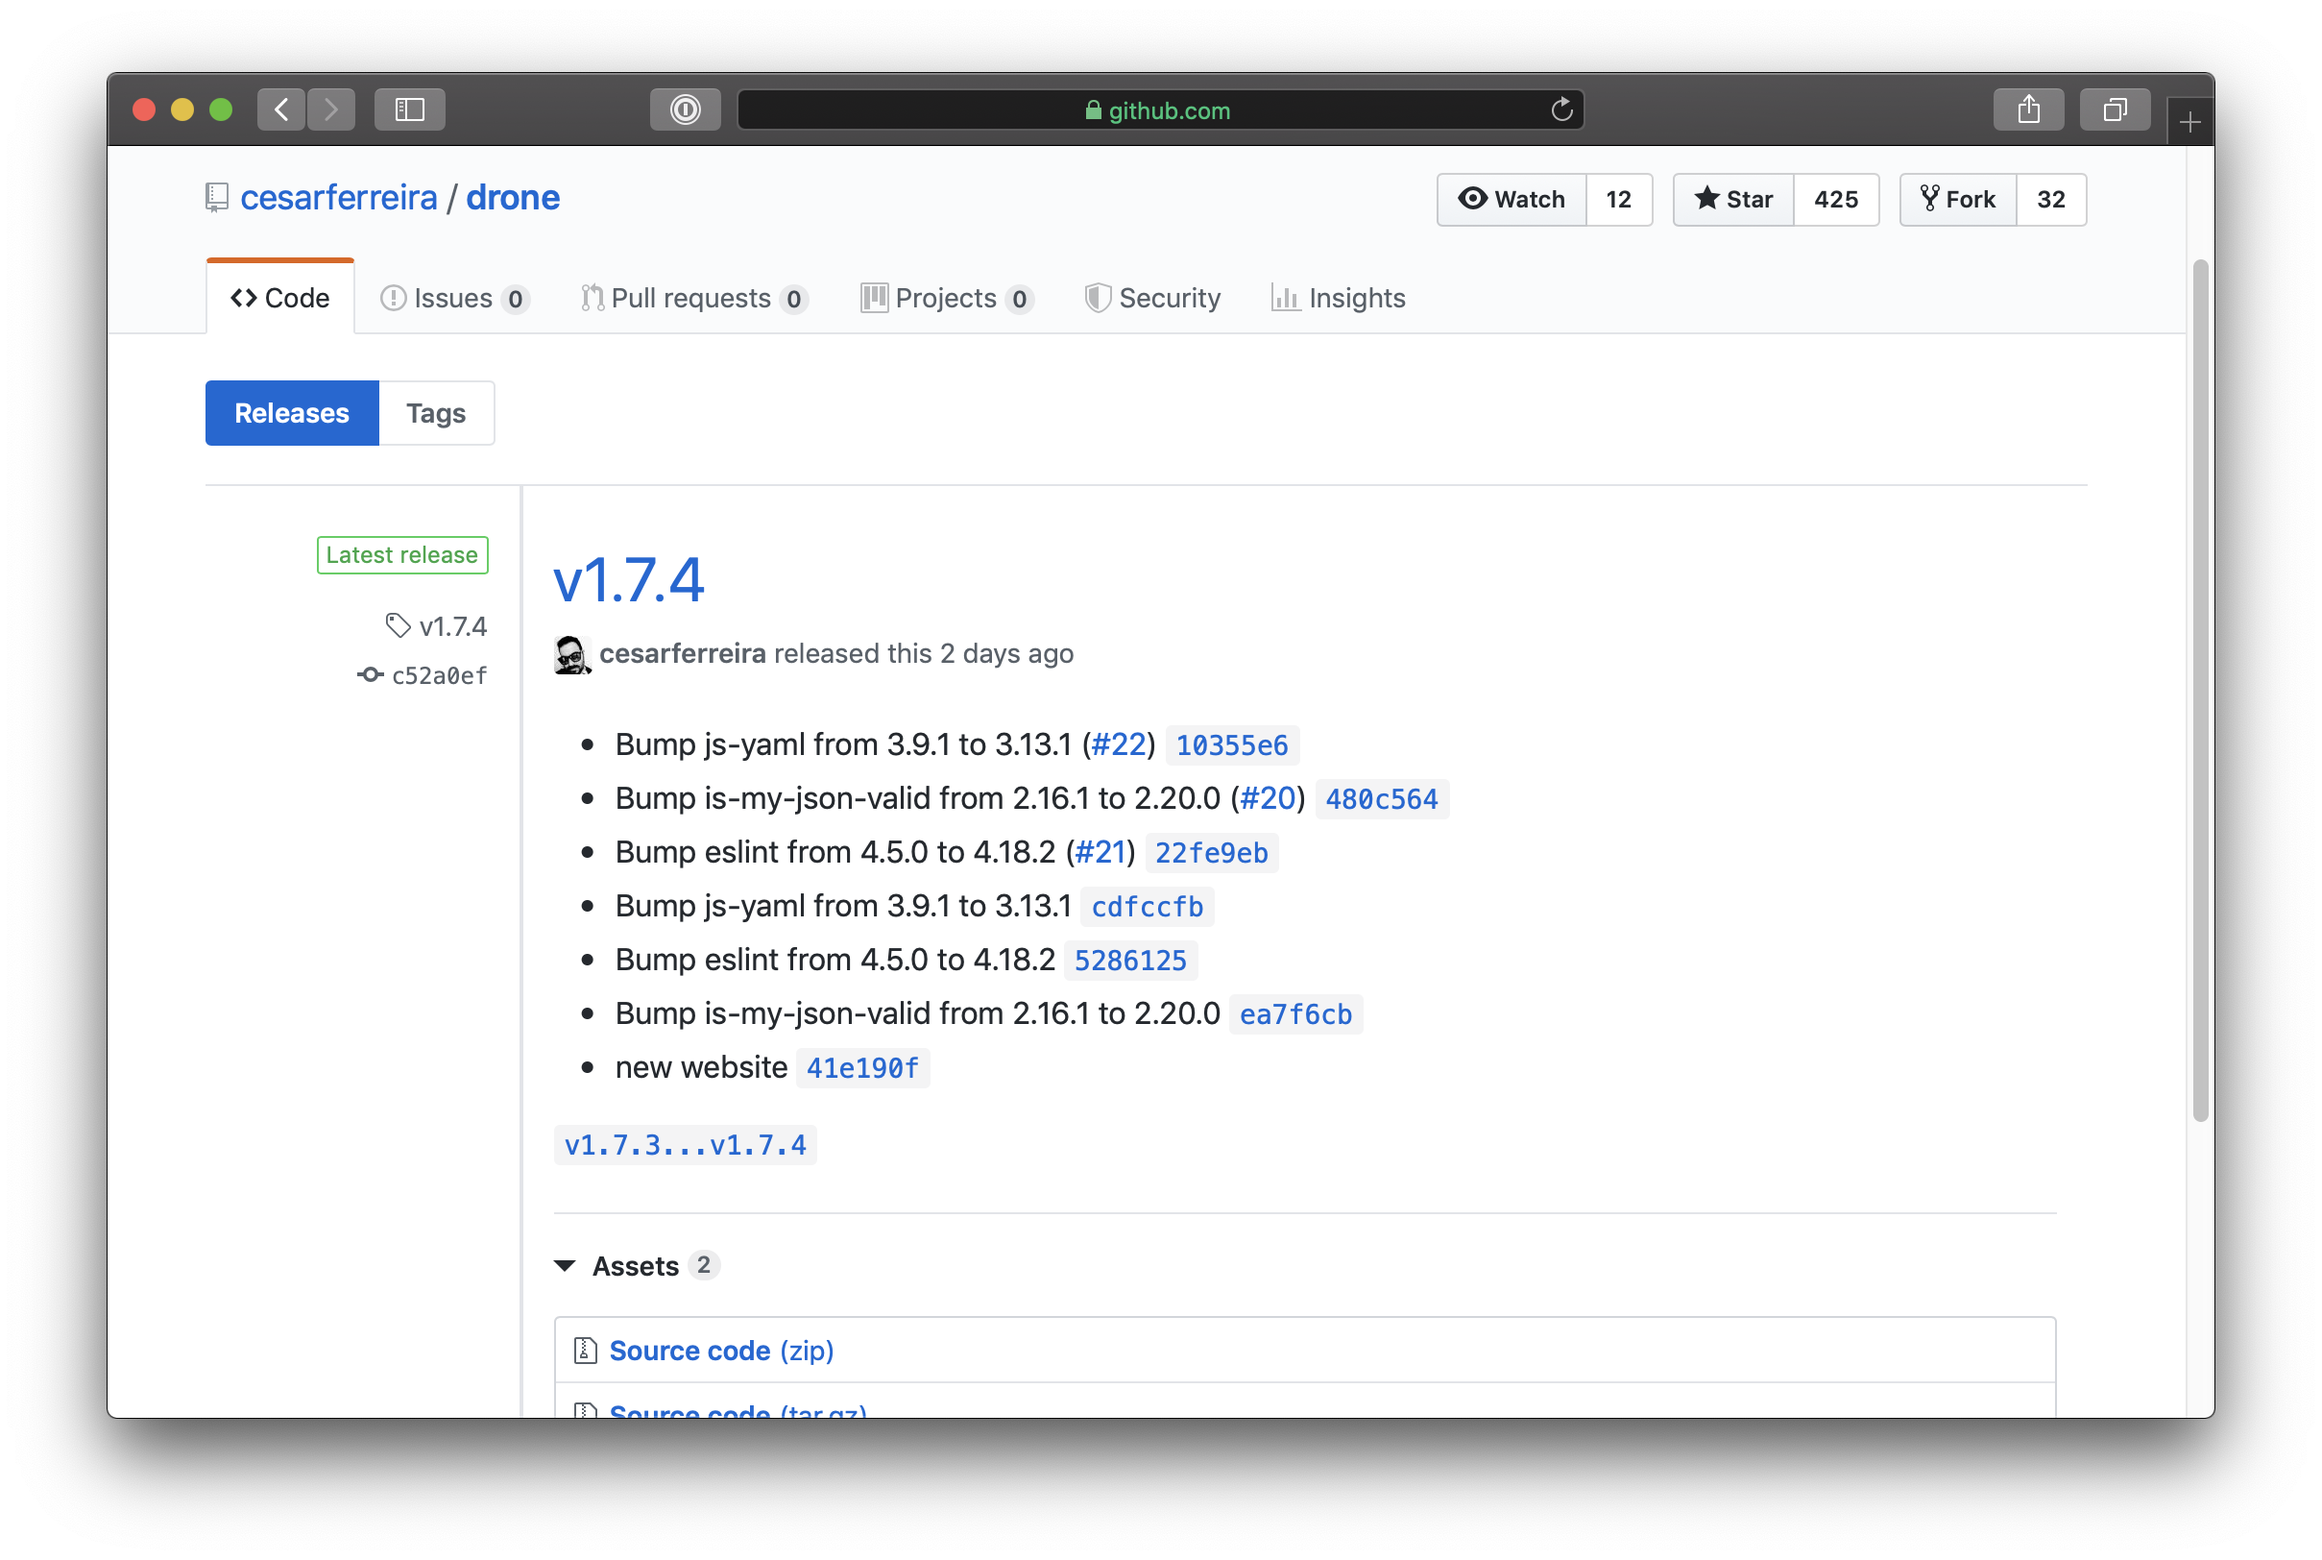
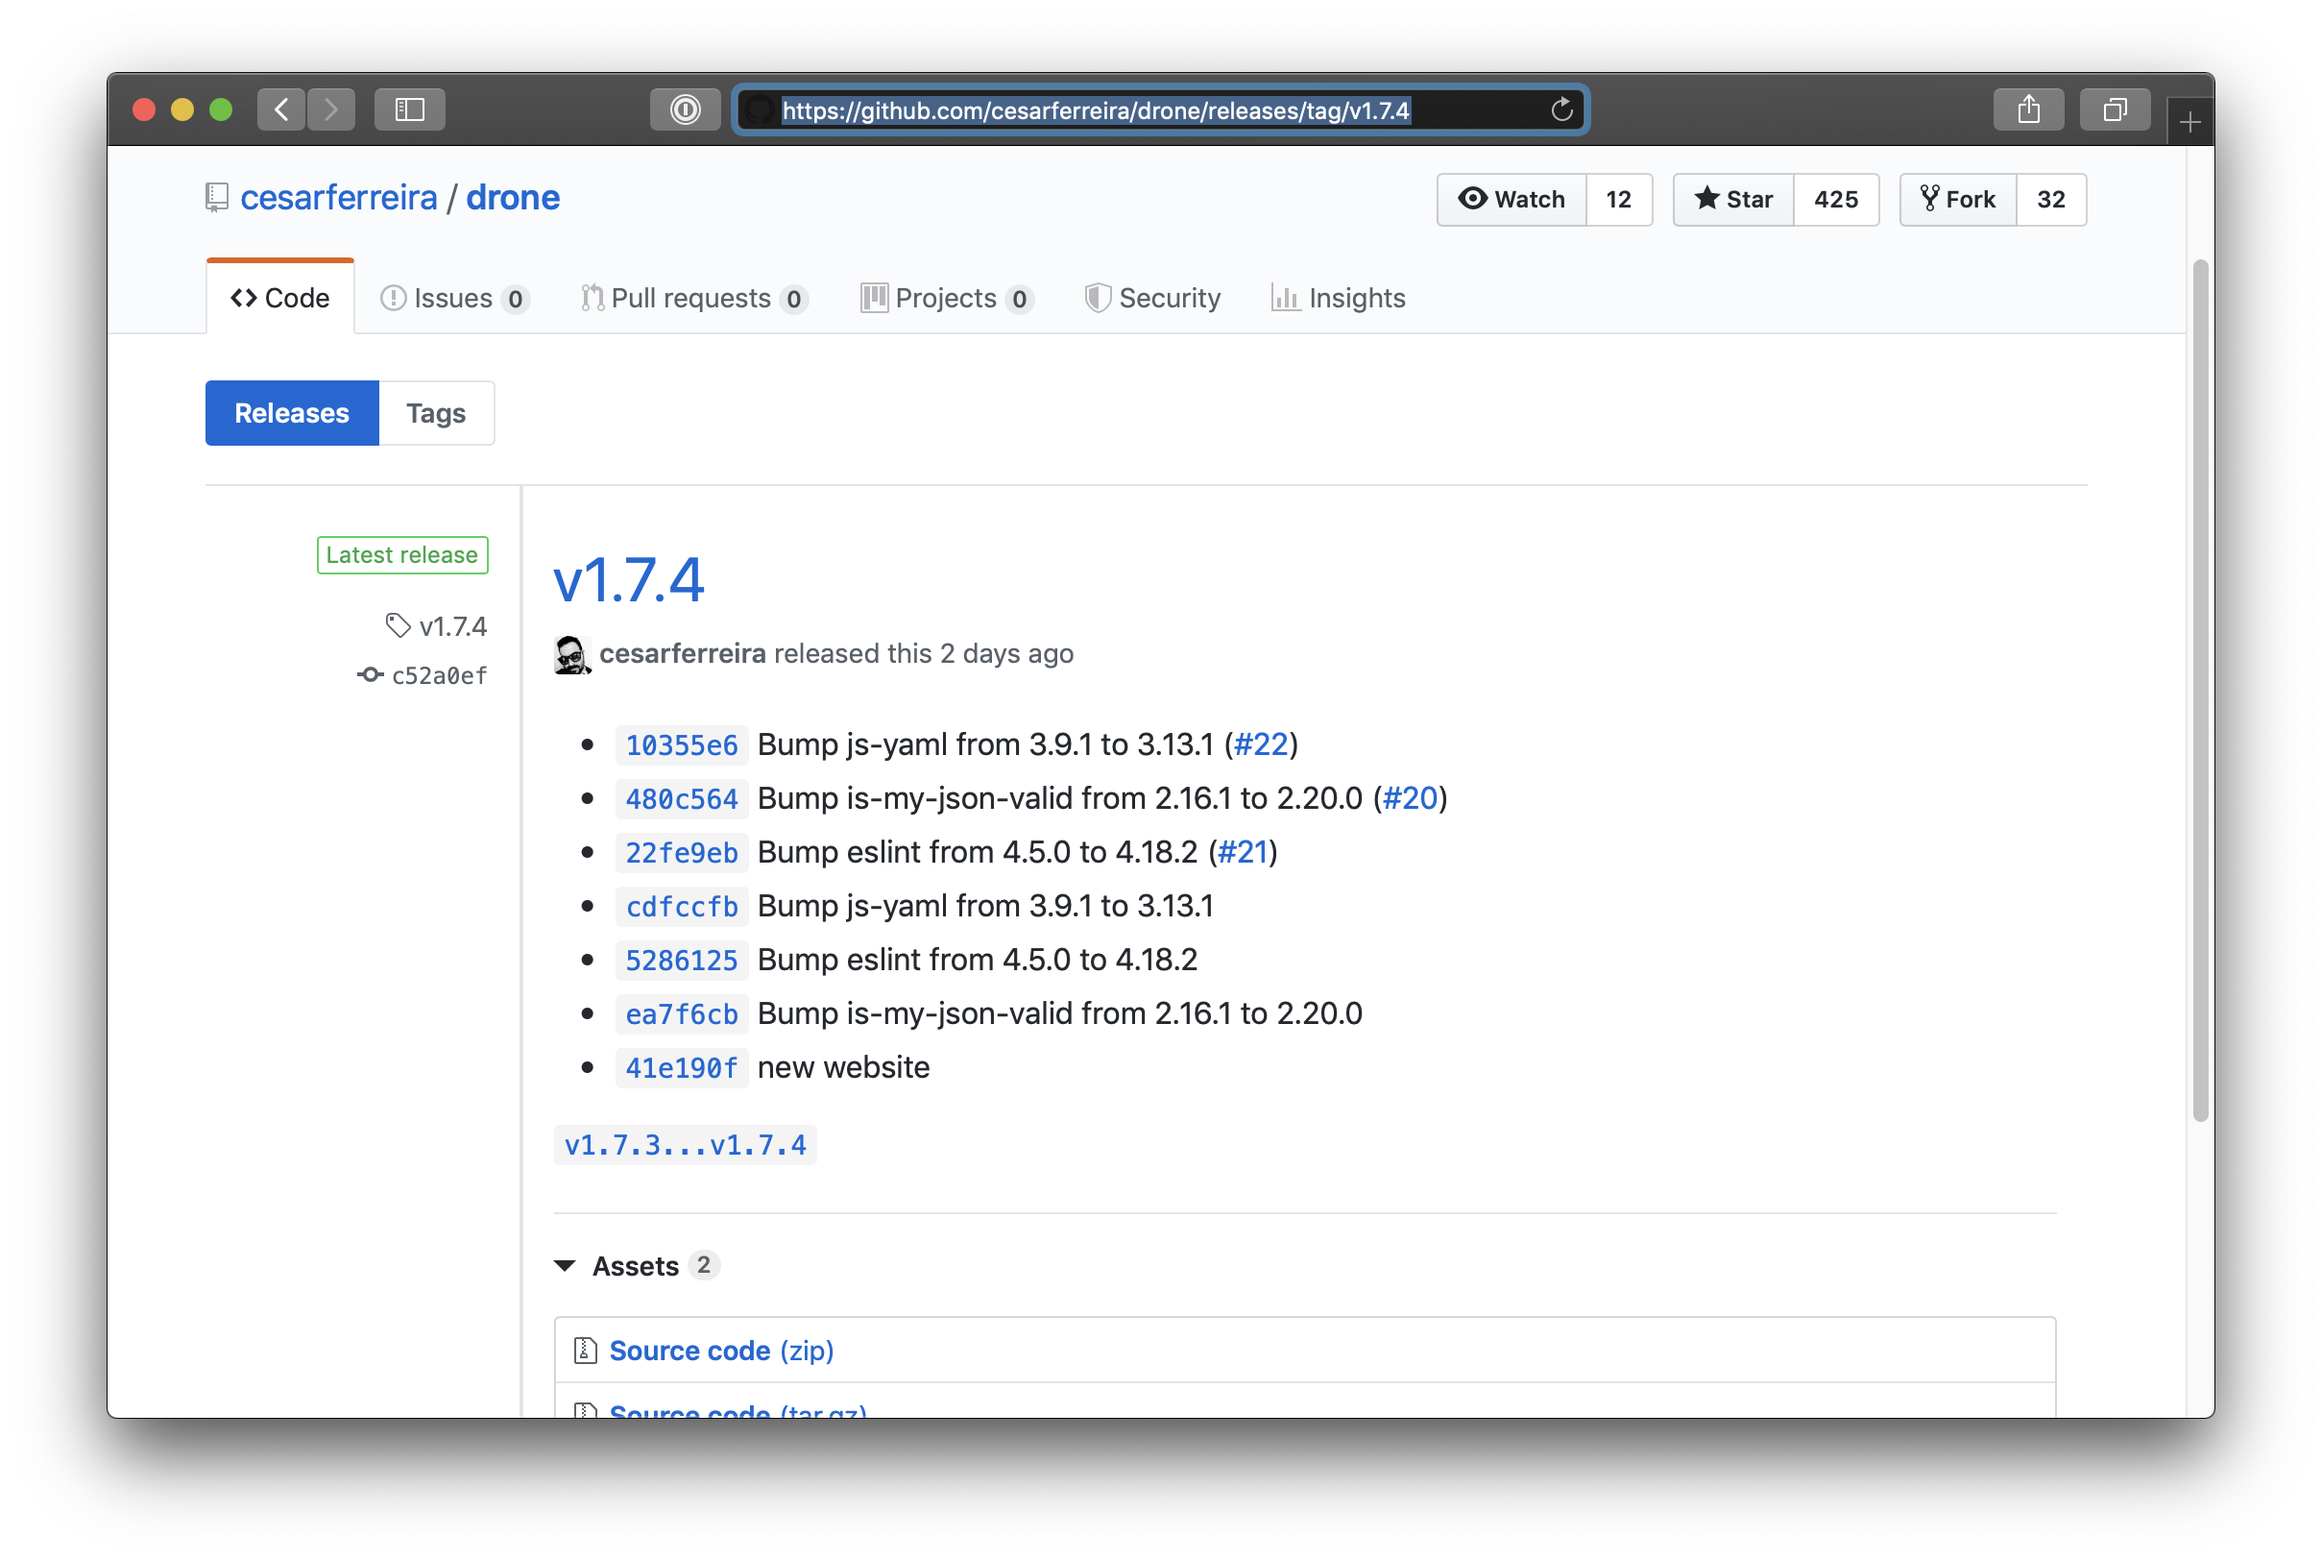
new screenshot

Changed region(s): [[0.2481, 0.4618, 0.6203, 0.7081], [0.3102, 0.0308, 0.6824, 0.0924]]

diff --git a/src/core.js b/src/core.js
@@ -65,9 +65,7 @@ module.exports = {
                     const oldTag = await Utils.getLatestTag()
                     const newTag = await Utils.getNextVersionFor(oldTag, command.toLowerCase())
                     const confirmed = await areYouSureYouWantToPush(oldTag, newTag, newTag)
-                    if (confirmed) {
-                        await createRelease(oldTag, newTag)
-                    }
+                    if (confirmed) await createRelease(oldTag, newTag)
                 })();
                 break;
             case 'about':
@@ -82,9 +80,7 @@ module.exports = {
                     ui.initialPrompt(oldTag)
                     const { newTag, message } = await ui.askForValidNewTag(oldTag);
                     const confirmed = await areYouSureYouWantToPush(oldTag, newTag, message)
-                    if (confirmed) {
-                        await createRelease(oldTag, newTag)
-                    }
+                    if (confirmed) await createRelease(oldTag, newTag)
                 })()
         }
     }

diff --git a/src/utils.js b/src/utils.js
@@ -99,7 +99,7 @@ const self = module.exports = {
             });
 
         const releaseNotes = commits.map(commit =>
-            `- ${commit.message}  ${commit.id}`
+            `- ${commit.id} ${commit.message}`
         ).join('\n') + `\n\n${repoUrl}/compare/${oldTag}...${newTag}`;
 
         return {
